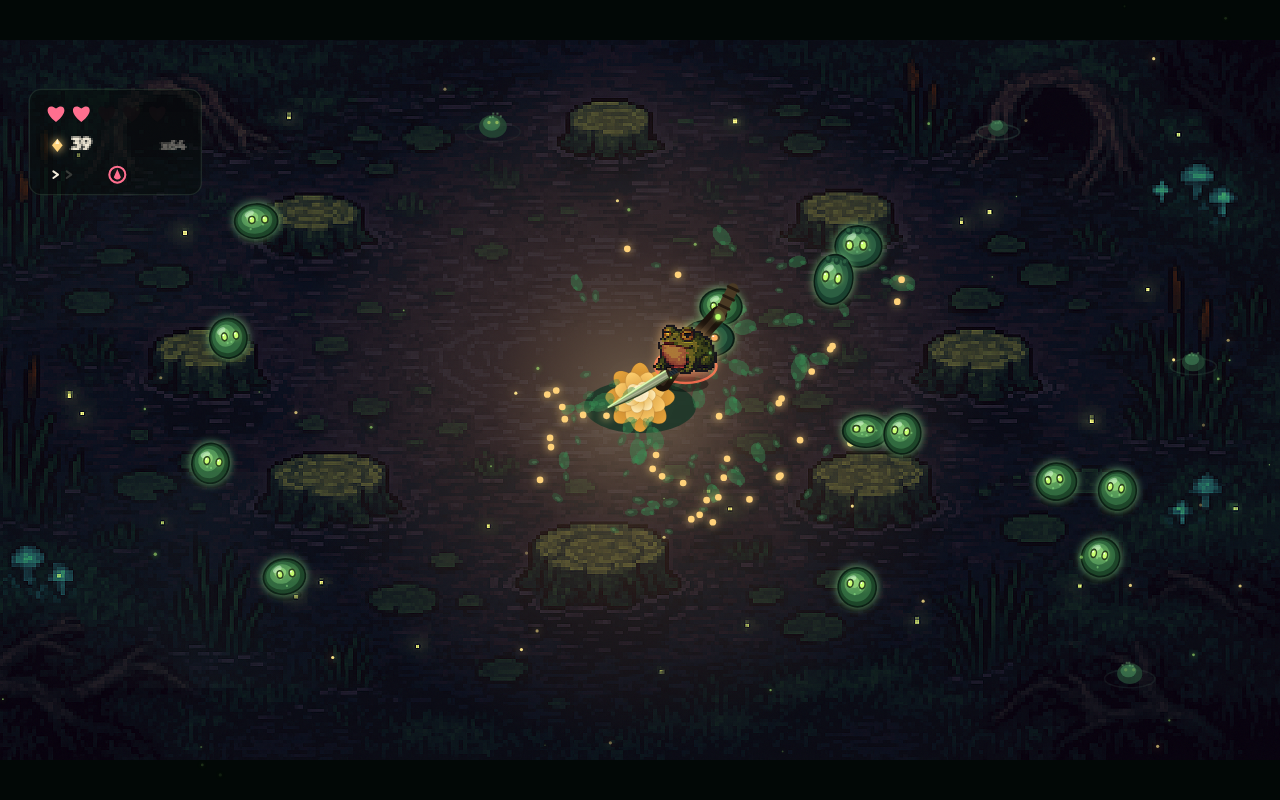
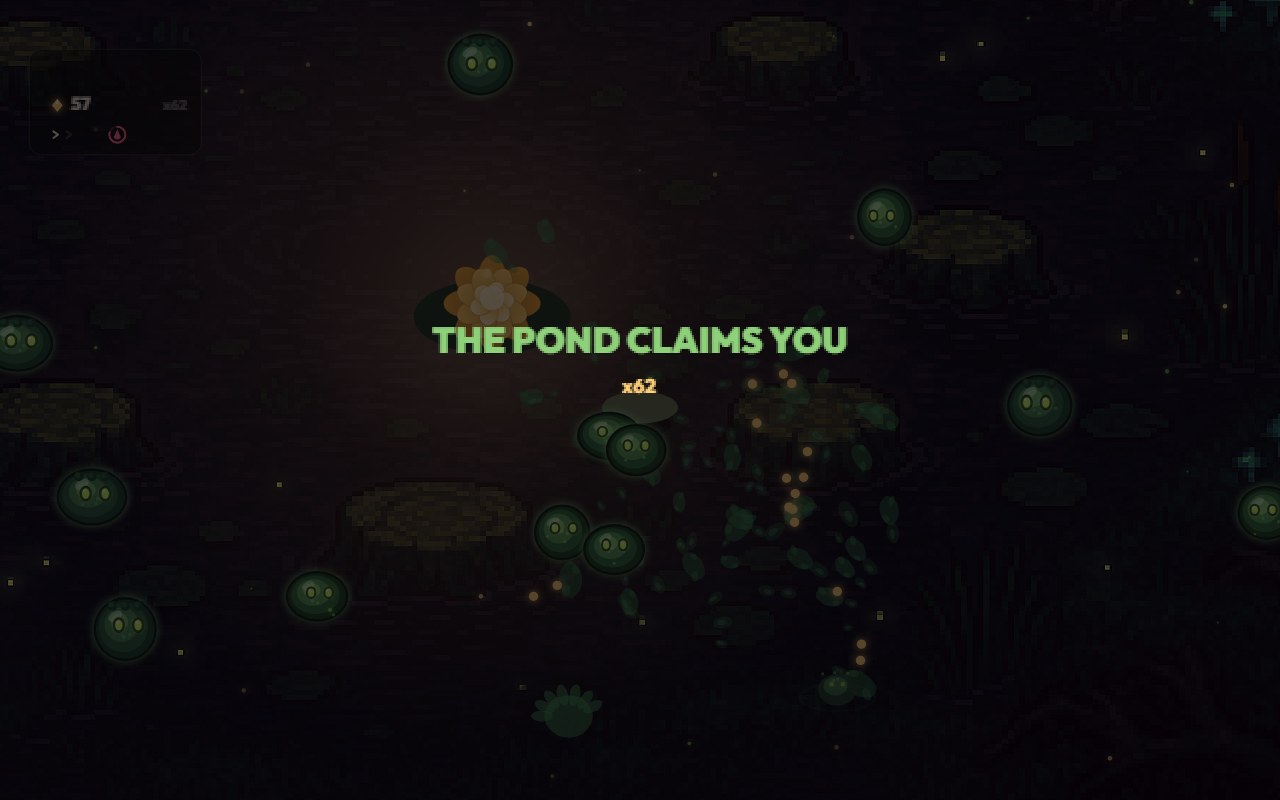
R4: follow-camera zoomed ~40% (biggest legibility unlock)
Replace the fixed arena letterbox with a follow-camera centered on the frog,
clamped to arena bounds, zoomed 1.4x past fit — the hero, katana-on-back, and
slimes now read at a legible scale (R3 consensus: everything too small/muddy,
frog a 40px dot). HUD is now a fixed top-left screen-space overlay independent
of the camera. Shake/zoom-pulse/rot preserved; toWorld input mapping updated.
Typecheck clean, headless QA no errors.

diff --git a/src/render/render.ts b/src/render/render.ts
@@ -375,27 +375,29 @@ export function draw(ctx: CanvasRenderingContext2D, w: World, cw: number, ch: nu
   if (!backdrop) backdrop = buildBackdrop();
   updateDecalLayer();
 
-  // letterboxed uniform scale
-  const scale = Math.min(cw / ARENA_W, ch / ARENA_H);
-  view.scale = scale / devicePixelRatio;
-  const w2 = ARENA_W * scale, h2 = ARENA_H * scale;
-  const ox = (cw - w2) / 2, oy = (ch - h2) / 2;
-  view.ox = ox / devicePixelRatio; view.oy = oy / devicePixelRatio;
+  // FOLLOW-CAMERA zoomed ~40% past the letterbox fit, centered on the frog and clamped to the
+  // arena — the hero + combat now read at a legible scale (critics: everything too small/muddy).
+  const fit = Math.min(cw / ARENA_W, ch / ARENA_H);
+  const ZOOM = 1.4;
+  const [sx, sy, rot] = shakeOffset(time);
+  const camScale = fit * ZOOM * (1 + feel.zoomPulse * 0.02);
+  const viewW = cw / camScale, viewH = ch / camScale;
+  const ff = w.frog;
+  const camFx = ff.px + (ff.x - ff.px) * alpha, camFy = ff.py + (ff.y - ff.py) * alpha;
+  const camX = viewW >= ARENA_W ? ARENA_W / 2 : Math.max(viewW / 2, Math.min(ARENA_W - viewW / 2, camFx));
+  const camY = viewH >= ARENA_H ? ARENA_H / 2 : Math.max(viewH / 2, Math.min(ARENA_H - viewH / 2, camFy));
+  view.scale = camScale / devicePixelRatio;
+  view.ox = cw / (2 * devicePixelRatio) - view.scale * camX;
+  view.oy = ch / (2 * devicePixelRatio) - view.scale * camY;
 
   ctx.fillStyle = '#020806';
   ctx.fillRect(0, 0, cw, ch);
   ctx.save();
   ctx.imageSmoothingEnabled = false; // crisp pixel art
-  ctx.translate(ox, oy);
-  ctx.scale(scale, scale);
-
-  // camera: trauma shake + zoom pulse (juice-only camera law)
-  const [sx, sy, rot] = shakeOffset(time);
-  const zoom = 1 + feel.zoomPulse * 0.02;
-  ctx.translate(ARENA_W / 2, ARENA_H / 2);
+  ctx.translate(cw / 2, ch / 2);
   ctx.rotate(rot);
-  ctx.scale(zoom, zoom);
-  ctx.translate(-ARENA_W / 2 + sx, -ARENA_H / 2 + sy);
+  ctx.scale(camScale, camScale);
+  ctx.translate(-camX + sx, -camY + sy);
 
   // real painted swamp backdrop (falls back to graybox pond until the image loads)
   const bd = img('backdrop');
@@ -498,7 +500,8 @@ export function draw(ctx: CanvasRenderingContext2D, w: World, cw: number, ch: nu
 
   ctx.restore();
 
-  drawHud(ctx, w, cw, ch, scale, ox, oy, time, paused);
+  // HUD is a fixed screen-space overlay (independent of the follow-camera), anchored top-left
+  drawHud(ctx, w, cw, ch, fit, 0, 0, time, paused);
 }
 
 // ---------- frog ----------
